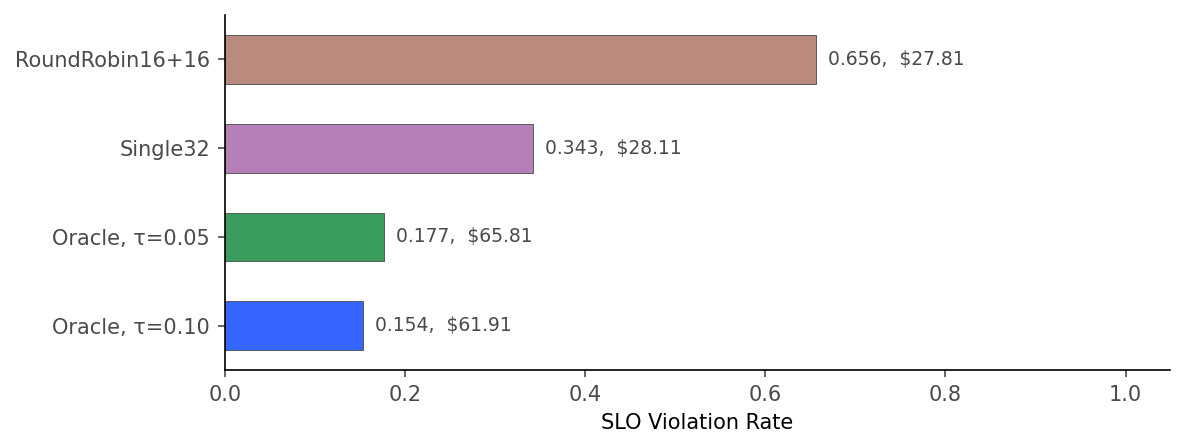
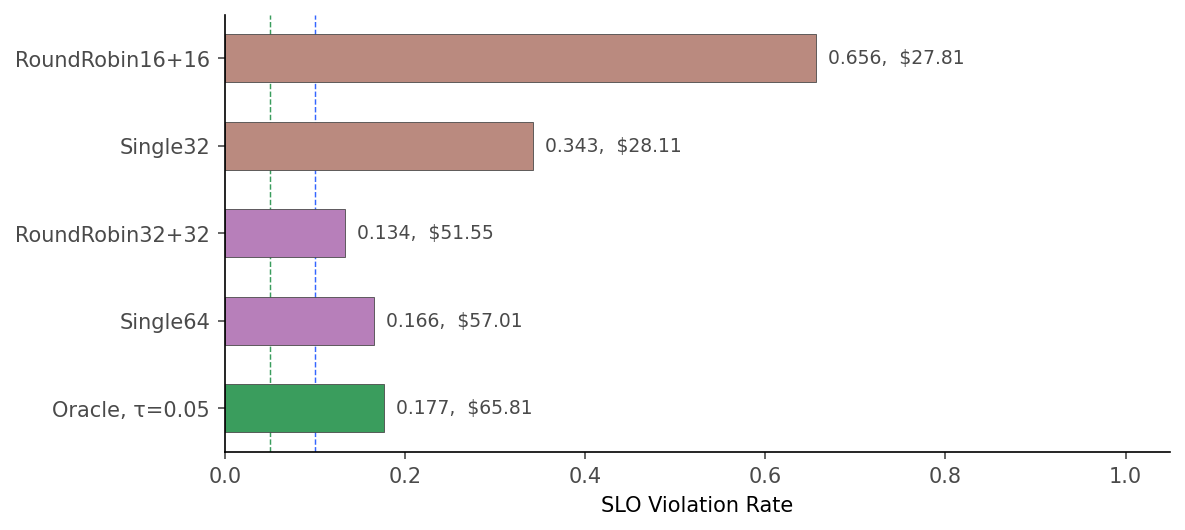
Older plots

diff --git a/data/plots/main_eval_v6/main_eval_v6.tex b/data/plots/main_eval_v6/main_eval_v6.tex
@@ -8,13 +8,13 @@
 \resizebox{\columnwidth}{!}{
 \begin{tabular}{c c c || c c | c c | c c | c c | c c | c c | c c | c c | c c | c c}
 \toprule
-$\lambda$ & $\kappa$ & C & \multicolumn{2}{c|}{RoundRobin16+16} & \multicolumn{2}{c|}{Single32} & \multicolumn{2}{c|}{Past1, τ=0.05} & \multicolumn{2}{c|}{Past7, τ=0.05} & \multicolumn{2}{c|}{Past30, τ=0.05} & \multicolumn{2}{c|}{Oracle, τ=0.05} & \multicolumn{2}{c|}{Past1, τ=0.10} & \multicolumn{2}{c|}{Past7, τ=0.10} & \multicolumn{2}{c|}{Past30, τ=0.10} & \multicolumn{2}{c}{Oracle, τ=0.10} \\
+$\lambda$ & $\kappa$ & C & \multicolumn{2}{c|}{RoundRobin16+16} & \multicolumn{2}{c|}{Single32} & \multicolumn{2}{c|}{Past1, τ=0.05} & \multicolumn{2}{c|}{Past7, τ=0.05} & \multicolumn{2}{c|}{Past30, τ=0.05} & \multicolumn{2}{c|}{Oracle, τ=0.05} & \multicolumn{2}{c|}{Past1, τ=0.01} & \multicolumn{2}{c|}{Past7, τ=0.01} & \multicolumn{2}{c|}{Past30, τ=0.01} & \multicolumn{2}{c}{Oracle, τ=0.01} \\
  &  &  & VR & Cost & VR & Cost & VR & Cost & VR & Cost & VR & Cost & VR & Cost & VR & Cost & VR & Cost & VR & Cost & VR & Cost \\
 \hline
-κ=4 &  &  & 0.5869 & \$28.18 & 0.3649 & \$24.20 & 0.0761 & \$33.95 & \underline{0.0388} & \$35.36 & 0.0869 & \$32.90 & \textbf{0.0338} & \$36.43 & 0.1142 & \$31.25 & 0.0876 & \$34.18 & 0.1214 & \$29.85 & 0.0711 & \$31.84 \\
-κ=2 &  &  & 0.8369 & \$28.18 & 0.6135 & \$24.20 & 0.0819 & \$45.90 & 0.0553 & \$48.05 & 0.1099 & \$44.02 & \textbf{0.0259} & \$49.68 & 0.1530 & \$43.07 & 0.0912 & \$46.99 & 0.0761 & \$45.46 & \underline{0.0496} & \$48.83 \\
+κ=4 &  &  & 0.5553 & \$25.37 & 0.4820 & \$24.98 & 0.0603 & \$32.69 & 0.0654 & \$32.06 & 0.0690 & \$32.54 & 0.0431 & \$31.81 & 0.0273 & \$35.42 & \underline{0.0259} & \$34.26 & 0.0560 & \$32.51 & \textbf{0.0093} & \$39.53 \\
+κ=2 &  &  & 0.7845 & \$25.37 & 0.7256 & \$24.98 & 0.0963 & \$42.05 & 0.0625 & \$43.78 & 0.1049 & \$42.17 & \textbf{0.0553} & \$42.89 & 0.0963 & \$40.75 & 0.0611 & \$44.54 & 0.0754 & \$43.94 & \underline{0.0553} & \$42.89 \\
 \hline
-\multicolumn{3}{c||}{\textit{Mean~$\Delta$}} & --- & --- & -32.3\% & -14.1\% & -88.6\% & +41.7\% & \underline{-93.4\%} & +48.0\% & -86.0\% & +36.5\% & \textbf{-95.6\%} & +52.8\% & -81.1\% & +31.9\% & -87.1\% & +44.0\% & -85.1\% & +33.6\% & -91.0\% & +43.1\% \\
+\multicolumn{3}{c||}{\textit{Mean~$\Delta$}} & --- & --- & -10.4\% & -1.5\% & -88.4\% & +47.3\% & -90.1\% & +49.5\% & -87.1\% & +47.3\% & -92.6\% & +47.2\% & -91.4\% & +50.1\% & \underline{-93.8\%} & +55.3\% & -90.1\% & +50.7\% & \textbf{-95.6\%} & +62.5\% \\
 \bottomrule
 \end{tabular}}
 \caption{Mean improvement is relative to RoundRobin16+16.}

diff --git a/data/plots/main_eval_v6/main_eval_v6#live.tex b/data/plots/main_eval_v6/main_eval_v6#live.tex
@@ -6,15 +6,15 @@
 \begin{table}[ht]
 \centering
 \resizebox{\columnwidth}{!}{
-\begin{tabular}{c c c || c c | c c | c c | c c}
+\begin{tabular}{c c c || c c | c c | c c | c c | c c}
 \toprule
-$\lambda$ & $\kappa$ & C & \multicolumn{2}{c|}{RoundRobin16+16} & \multicolumn{2}{c|}{Single32} & \multicolumn{2}{c|}{Oracle, τ=0.05} & \multicolumn{2}{c}{Oracle, τ=0.10} \\
- &  &  & VR & Cost & VR & Cost & VR & Cost & VR & Cost \\
+$\lambda$ & $\kappa$ & C & \multicolumn{2}{c|}{RoundRobin16+16} & \multicolumn{2}{c|}{Single32} & \multicolumn{2}{c|}{RoundRobin32+32} & \multicolumn{2}{c|}{Single64} & \multicolumn{2}{c}{Oracle, τ=0.05} \\
+ &  &  & VR & Cost & VR & Cost & VR & Cost & VR & Cost & VR & Cost \\
 \hline
-κ=4 &  &  & 0.4080 & \$27.81 & 0.1537 & \$28.11 & \textbf{0.0783} & \$47.50 & \underline{0.1466} & \$46.43 \\
-κ=2 &  &  & 0.6559 & \$27.81 & 0.3427 & \$28.11 & \underline{0.1767} & \$65.81 & \textbf{0.1537} & \$61.91 \\
+κ=4 &  &  & 0.4080 & \$27.81 & 0.1537 & \$28.11 & \textbf{0.0338} & \$51.55 & \underline{0.0632} & \$57.01 & 0.0783 & \$47.50 \\
+κ=2 &  &  & 0.6559 & \$27.81 & 0.3427 & \$28.11 & \textbf{0.1336} & \$51.55 & \underline{0.1659} & \$57.01 & 0.1767 & \$65.81 \\
 \hline
-\multicolumn{3}{c||}{\textit{Mean~$\Delta$}} & --- & --- & -55.0\% & +1.1\% & \textbf{-76.9\%} & +103.7\% & \underline{-70.3\%} & +94.7\% \\
+\multicolumn{3}{c||}{\textit{Mean~$\Delta$}} & --- & --- & -55.0\% & +1.1\% & \textbf{-85.7\%} & +85.3\% & \underline{-79.6\%} & +104.9\% & -76.9\% & +103.7\% \\
 \bottomrule
 \end{tabular}}
 \caption{Mean improvement is relative to RoundRobin16+16.}
